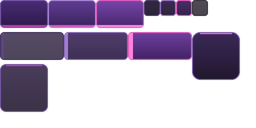
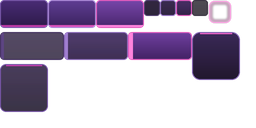
style: Actualiza botones y textura de la ficha Pokémon
(cherry picked from commit f9287efd2930babe3ca4df5fbfb46703205d3752)

Changed region(s): [[0.8125, 0.0, 0.9062, 0.1875]]

diff --git a/herramientas/menus.py b/herramientas/menus.py
@@ -65,4 +65,11 @@ d.rectangle([(192 + 8) * S, (32 + 1) * S, (192 + 40) * S, (32 + 2) * S], fill=MA
 piece(0, 64, 48, 48, 6, (40, 24, 62, 215), (22, 14, 36, 215), (118, 86, 166, 255))
 d.rectangle([(0 + 6) * S, (64 + 1) * S, (0 + 42) * S, (64 + 2) * S], fill=(185, 56, 164, 255))
 
+
+g = Image.new("RGBA", (24 * S, 24 * S), (0, 0, 0, 0))
+ImageDraw.Draw(g).rounded_rectangle([2 * S, 2 * S, 22 * S - 1, 22 * S - 1], 5 * S, outline=(255, 110, 215, 210), width=2 * S)
+g = g.filter(ImageFilter.GaussianBlur(1.2 * S))
+ImageDraw.Draw(g).rounded_rectangle([1 * S, 1 * S, 23 * S - 1, 23 * S - 1], 5 * S, outline=(255, 150, 225, 230), width=1 * S)
+img.alpha_composite(g, (208 * S, 0))
+
 img.resize((W, H), Image.LANCZOS).save(out)
